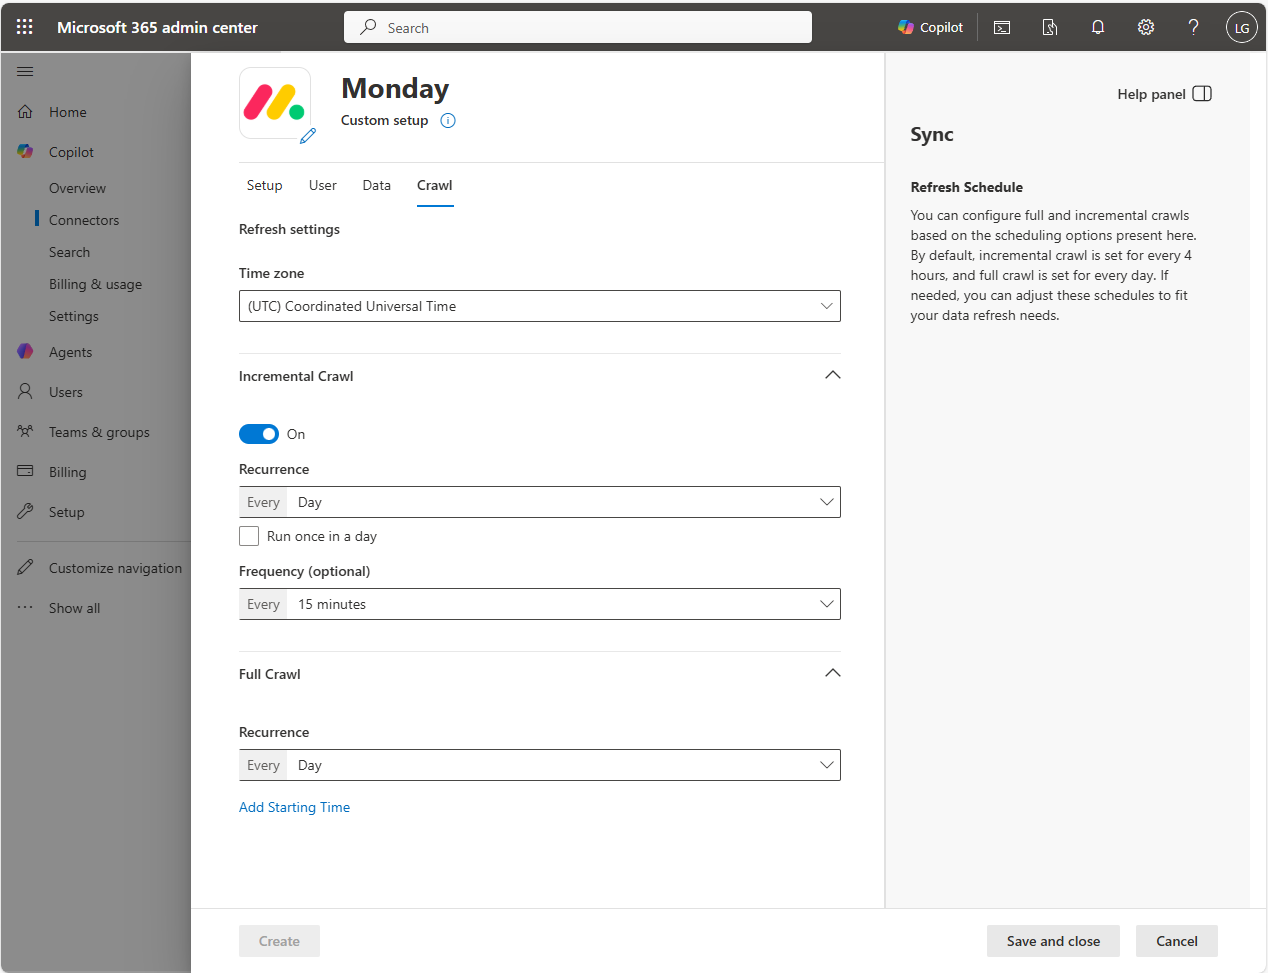
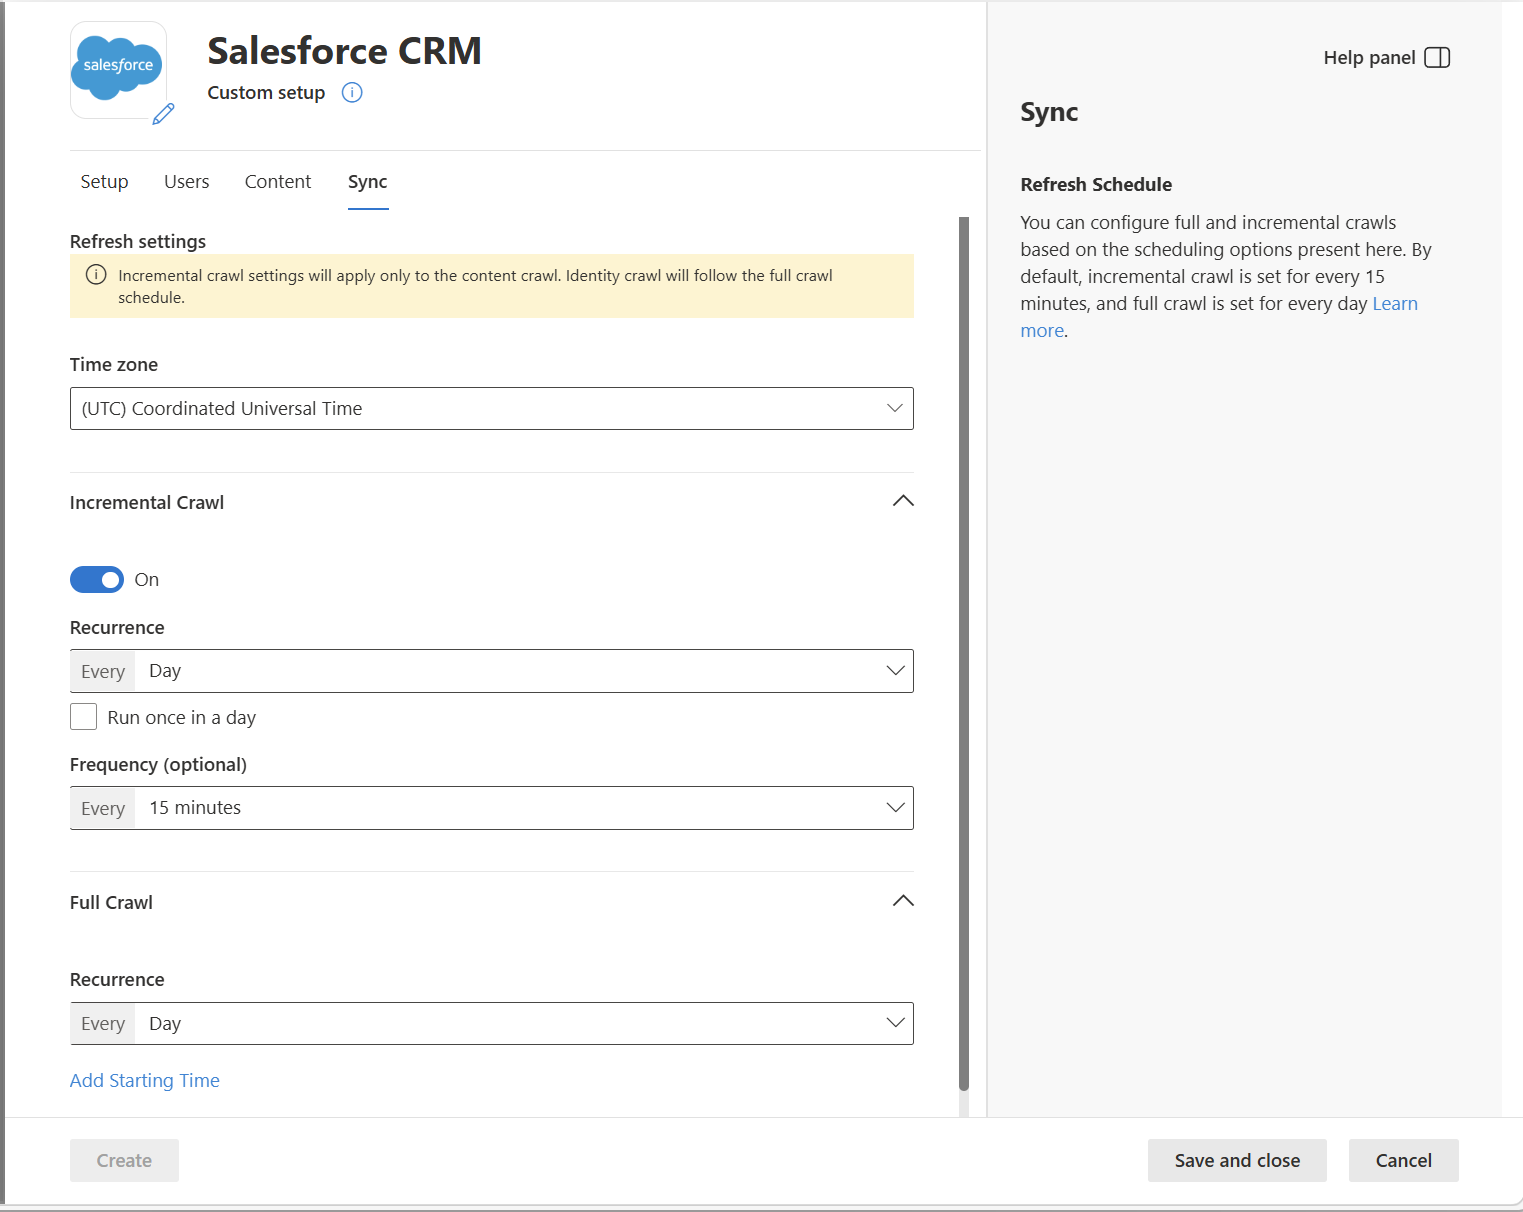
Updated UI text and screenshots.

diff --git a/copilot-connectors/deployment-overview.md b/copilot-connectors/deployment-overview.md
@@ -60,15 +60,15 @@ For guidance, see [Enhance Copilot discovery of connector content](enhance-copil
 
 You can customize the default values for connector settings. On the connector page in the admin center, choose **Custom setup**. This option includes three tabs:
 
-- **User**
-- **Data**
-- **Crawl**
+- **Users**
+- **Content**
+- **Sync**
 
-### User settings
+### Users settings
 
 :::image type="content" alt-text="Screenshot that shows the User configuration screen for ServiceNow Knowledge Copilot connector." source="media/deployment-overview/customize-user.png" lightbox="media/deployment-overview/customize-user.png":::
 
-On the **User** tab, under **Access Permissions**, choose whether indexed data is visible to:
+On the **Users** tab, under **Access Permissions**, choose whether indexed data is visible to:
 
 - Only users with access to the content
 - Everyone in the organization
@@ -76,11 +76,11 @@ On the **User** tab, under **Access Permissions**, choose whether indexed data i
 By default, users are mapped by matching their email to `UserPrincipalName` or `Mail` in Microsoft Entra ID. In the **Map Identities** section, you can provide a custom mapping formula.
 
 
-### Data settings
+### Content settings
 
 :::image type="content" alt-text="Screenshot that shows the Content configuration screen for ServiceNow Knowledge Copilot connector." source="media/deployment-overview/customize-data.png" lightbox="media/deployment-overview/customize-data.png":::
 
-On the **Data** tab, under **Manage properties**, you can:
+On the **Content** tab, under **Manage properties**, you can:
 
 - Configure properties to be searchable, queryable, or refinable.
 - Assign semantic labels and aliases to improve search relevance.
@@ -134,11 +134,11 @@ Search schema attributes include options to **Query**, **Search**, **Retrieve**,
 
 Only string properties can be marked as searchable.
 
-### Crawl settings
+### Sync settings
 
 :::image type="content" alt-text="Screenshot of the crawl settings in the Microsoft 365 admin center." source="media/deployment-overview/customize-crawl.png" lightbox="media/deployment-overview/customize-crawl.png":::
 
-On the **Crawl** tab, you can configure how often data syncs between the source and the connector index.
+On the **Sync** tab, you can configure how often data syncs between the source and the connector index.
 
 - **Full crawl**: Syncs all data at scheduled intervals.
 - **Incremental crawl**: Syncs only new or changed data.
@@ -146,7 +146,7 @@ On the **Crawl** tab, you can configure how often data syncs between the source 
 > [!NOTE]
 > Incremental crawls don't support permission updates. Run full crawls periodically to maintain sync accuracy.
 
-### Crawl scheduling
+#### Crawl scheduling
 
 Configure crawl frequency and timing:
 
@@ -156,7 +156,7 @@ Configure crawl frequency and timing:
 - **Start time**: When the crawl begins
 - **Reset**: Revert to default schedule
 
-If fields are left blank, Copilot connectors choose optimal crawl times.
+If fields are left blank, the optimal crawl times are set by default.
 
 ### IP firewall rules
 
